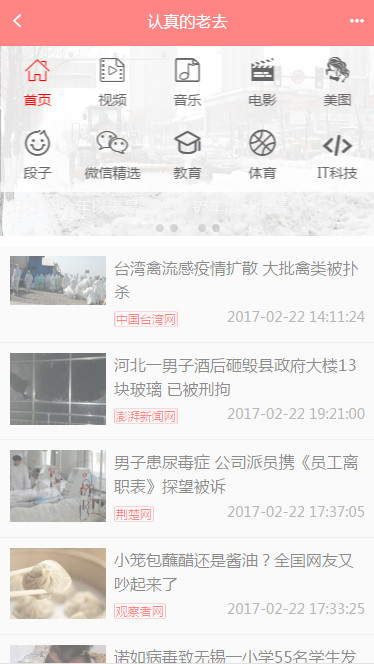
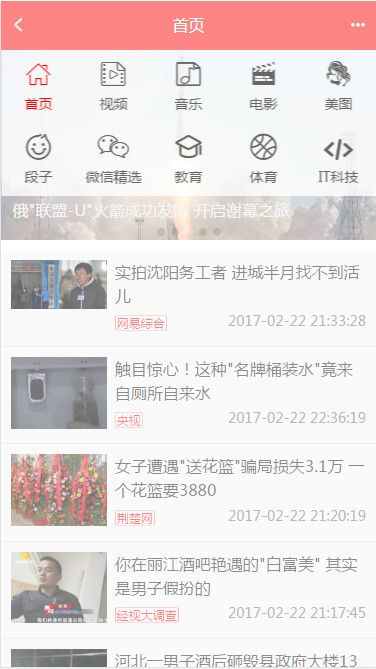
编写readme文档

diff --git a/src/api/config.js b/src/api/config.js
@@ -5,10 +5,10 @@
 //接口代理API
 global.apiProxy = 'https://bird.ioliu.cn/v1?url=http://c.m.163.com/nc/';
 
-const Proxy = "http://192.168.1.2:7788/?apiProxy=";//内网api代理
+//const Proxy = "http://192.168.1.2:7788/?apiProxy=";//内网api代理
 
 //外网测试环境 api代理
-//const Proxy = "http://120.77.252.160:8081/get.php?apiProxy=";
+const Proxy = "http://120.77.252.160:8081/get.php?apiProxy=";
 
 //定义api 接口
 global.apiurl = {

diff --git a/README.md b/README.md
@@ -14,17 +14,14 @@ npm run dev
 ```
 
 
- ![图片](https://coding.net/u/ecit/p/vue_news/git/raw/898b4a541e6433d131baa5aff72abee62236ed35/UI/index1.jpg) ![图片](https://coding.net/u/ecit/p/vue_news/git/raw/898b4a541e6433d131baa5aff72abee62236ed35/UI/index2.jpg)
+ ![图片](https://coding.net/u/ecit/p/vue_news/git/raw/898b4a541e6433d131baa5aff72abee62236ed35/UI/index1.jpg) ![图片](https://dn-coding-net-production-pp.qbox.me/a271b902-089f-4a1b-8879-357a113b66e5.png)
 
  ![图片](https://coding.net/u/ecit/p/vue_news/git/raw/master/UI/%25E7%2594%25B5%25E5%25BD%25B11-%25E7%2583%25AD%25E6%2592%25AD%25E5%2588%2597%25E8%25A1%25A8.jpg) ![图片](https://coding.net/u/ecit/p/vue_news/git/raw/898b4a541e6433d131baa5aff72abee62236ed35/UI/%25E7%2594%25B5%25E5%25BD%25B12-%25E8%25AF%25A6%25E6%2583%2585.jpg)
 
 
- ![图片](https://coding.net/u/ecit/p/vue_news/git/raw/898b4a541e6433d131baa5aff72abee62236ed35/UI/music1-%E5%88%86%E7%B1%BB.jpg) ![图片](https://coding.net/u/ecit/p/vue_news/git/raw/898b4a541e6433d131baa5aff72abee62236ed35/UI/music2-%E5%88%86%E7%B1%BB%E6%AD%8C%E5%8D%95.jpg) 
+ ![图片](https://coding.net/u/ecit/p/vue_news/git/raw/898b4a541e6433d131baa5aff72abee62236ed35/UI/music1-%E5%88%86%E7%B1%BB.jpg) ![图片](https://coding.net/u/ecit/p/vue_news/git/raw/898b4a541e6433d131baa5aff72abee62236ed35/UI/music2-%E5%88%86%E7%B1%BB%E6%AD%8C%E5%8D%95.jpg) ![图片](https://coding.net/u/ecit/p/vue_news/git/raw/898b4a541e6433d131baa5aff72abee62236ed35/UI/music3-音乐播放.jpg) 
 
-
- ![图片](https://coding.net/u/ecit/p/vue_news/git/raw/898b4a541e6433d131baa5aff72abee62236ed35/UI/music3-音乐播放.jpg) 
  ![图片](https://coding.net/u/ecit/p/vue_news/git/raw/898b4a541e6433d131baa5aff72abee62236ed35/UI/photo1-%E5%88%86%E7%B1%BB.jpg) 
-
  ![图片](https://coding.net/u/ecit/p/vue_news/git/raw/898b4a541e6433d131baa5aff72abee62236ed35/UI/%E8%A7%86%E9%A2%911.jpg) ![图片](https://coding.net/u/ecit/p/vue_news/git/raw/898b4a541e6433d131baa5aff72abee62236ed35/UI/%E7%AC%91%E8%AF%9D%E6%AE%B5%E5%AD%90.jpg ) 
 
 
